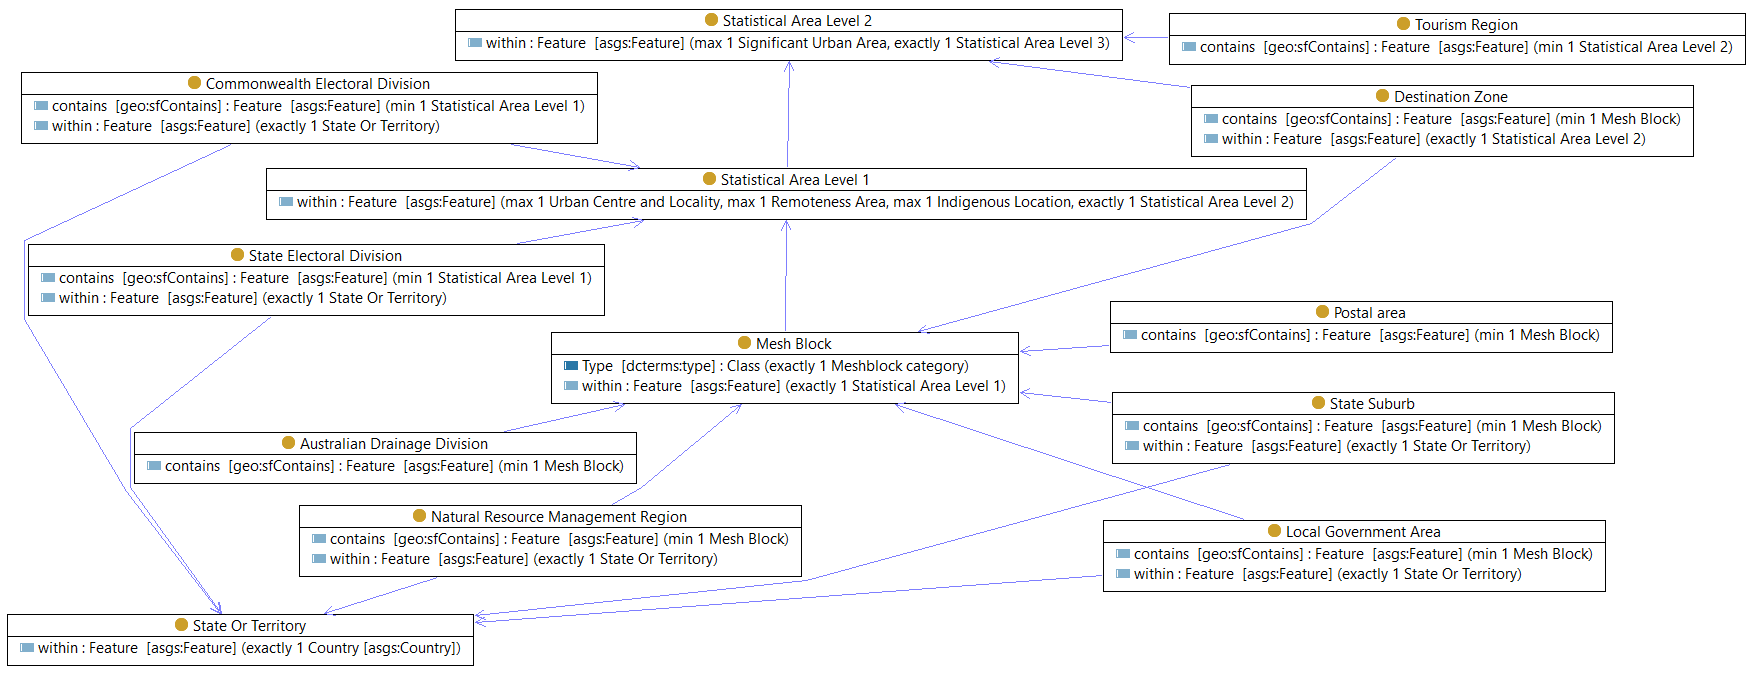
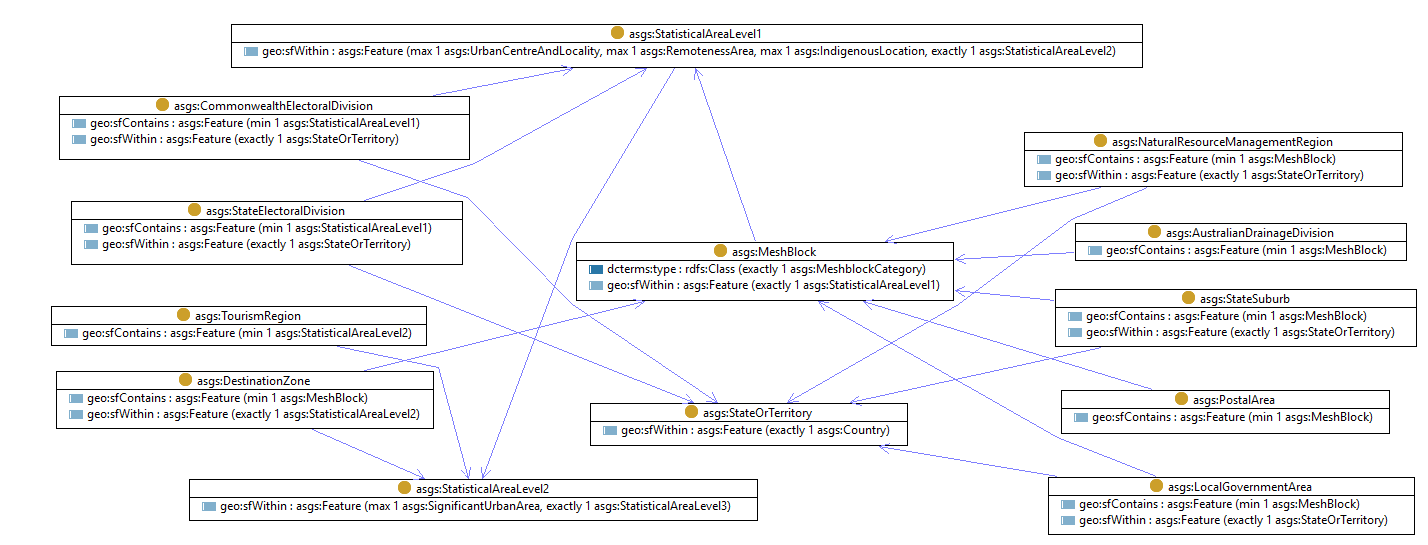
More figures in doco

Changed region(s): [[0.0, 0.0, 1.0, 0.9982], [0.5546, 0.8422, 0.5854, 0.8734]]

diff --git a/asgs.html b/asgs.html
@@ -269,6 +269,7 @@ code {
 <section id="toc">
     <h2>Table of Contents</h2>
     <ol>
+        <li><a href="#overview">Overview</a></li>
         <li><a href="#classes">Classes</a></li>
         <li><a href="#objectproperties">Object Properties</a></li>
         <li><a href="#datatypeproperties">Datatype Properties</a></li>
@@ -280,8 +281,20 @@ code {
 <section id="overview">
     <h2>Overview</h2>
     <div class="figure">
-        <div style="width:500px; height:500px; background-color: black;"><img src="./images/asgs-Statistical-Areas.png"/></div>
-        <div class="caption"><strong>Figure 1:</strong> Ontology overview</div>
+        <div><img src="./images/ABS-structures.png"/></div>
+        <div class="caption"><strong>Figure 1:</strong> Classes for ABS Structures</div>
+    </div>
+    <div class="figure">
+        <div><img src="./images/ABS-structures-attributes.png"/></div>
+        <div class="caption"><strong>Figure 2:</strong> ABS Structures with containment relations</div>
+    </div>
+    <div class="figure">
+        <div><img src="./images/Non-ABS-structures.png"/></div>
+        <div class="caption"><strong>Figure 3:</strong> Classes for Non-ABS Structures</div>
+    </div>
+    <div class="figure">
+        <div><img src="./images/Non-ABS-structures-attributes.png"/></div>
+        <div class="caption"><strong>Figure4:</strong> Non-ABS Structures with containment relations</div>
     </div>
 </section>
 <section id="classes">
